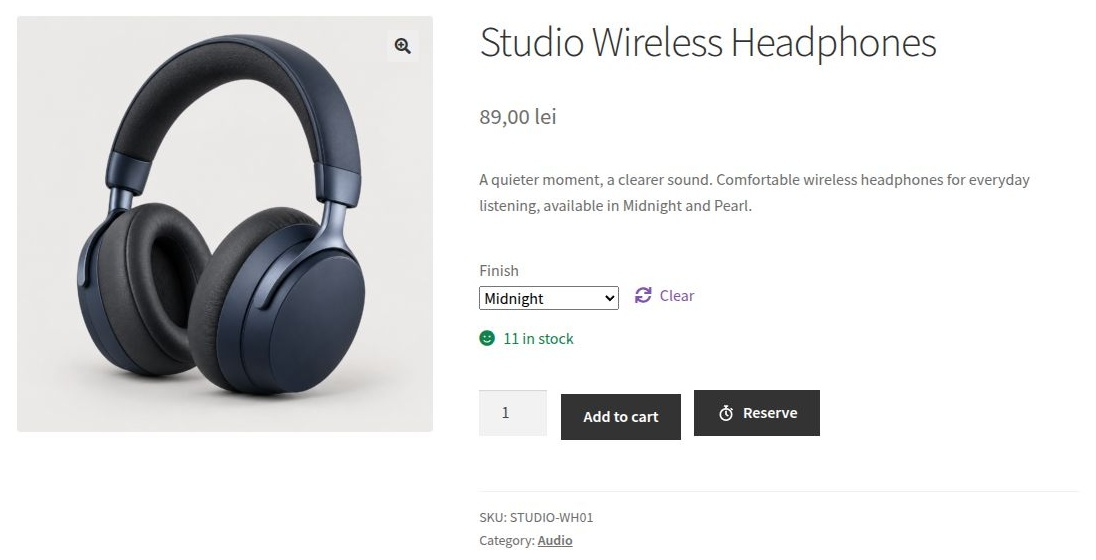
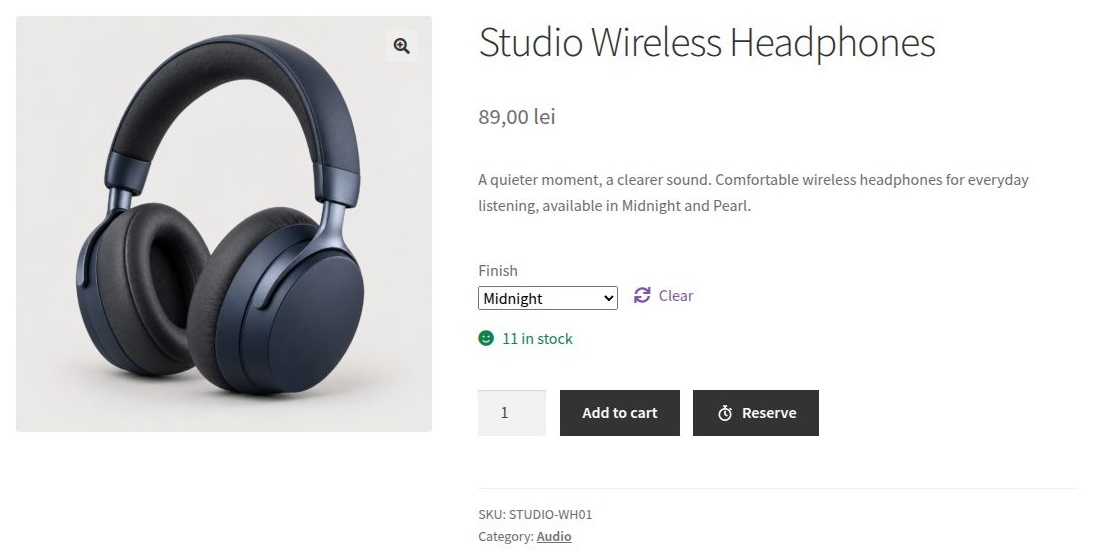
Align product action button edges across inline layouts

diff --git a/assets/css/style.css b/assets/css/style.css
@@ -293,6 +293,7 @@
 .woocommerce div.product form.cart button.single_add_to_cart_button {
     margin-bottom: 10px;
     margin-right: 10px;
+    vertical-align: top;
 }
 
 .woocommerce div.product #sdpr_reserve_product {
@@ -300,6 +301,7 @@
     align-items: center;
     justify-content: center;
     gap: 8px;
+    vertical-align: top;
 }
 
 .woocommerce div.product #sdpr_reserve_product .sdpr-reserve-icon {

diff --git a/.wordpress-org/README.md b/.wordpress-org/README.md
@@ -22,7 +22,7 @@ The 1.1.0 gallery was captured on 2026-10-27/28 from the local WooCommerce demon
 
 Images are genuine browser captures. Only rectangular cropping was applied: no interface controls were hidden, reconstructed or painted into the screenshots. WordPress toolbars, the admin sidebar, site navigation, test-site title and footer are excluded. Screenshot 6 intentionally frames the analytics header and summary cards, not the recent-record table. Screenshots 3 and 4 show states captured before the demonstration hold was transferred to an order or expired.
 
-The gallery shows selected-option labels, updated customer action spacing, compact urgency badges, the current brand header and readable account heading/status colors. It illustrates the product rather than certifying complete accessibility or every browser interaction. Automated checkout tests, visual observations and any remaining headed-browser limitations are recorded separately in the private update report.
+The gallery shows selected-option labels, updated customer action spacing, compact urgency badges, the current brand header and readable account heading/status colors. Screenshot 2 was refreshed after correcting the product buttons' inline baseline alignment; both buttons share the same top and bottom edges on desktop and wrap with a gap on narrow screens. It illustrates the product rather than certifying complete accessibility or every browser interaction. Automated checkout tests, visual observations and any remaining headed-browser limitations are recorded separately in the private update report.
 
 ## Gallery
 

diff --git a/CHANGELOG.md b/CHANGELOG.md
@@ -13,6 +13,7 @@ All notable changes to Spectral Dot Reservations are documented here. The projec
 - Translate remaining admin action errors and clarify the local order-transfer metric.
 - Block uninstall while WooCommerce is inactive if stock holds still need restoration.
 - Scope frontend styles to plugin components and protect heading, badge and deadline contrast across themes.
+- Align the Reserve and Add to cart buttons by their top edges rather than mismatched inline baselines.
 - Expand variation and shared-stock concurrency regressions and CI coverage.
 
 ## 1.0.0
